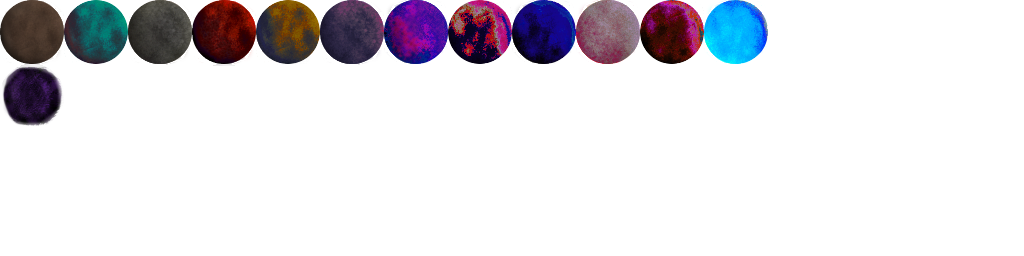
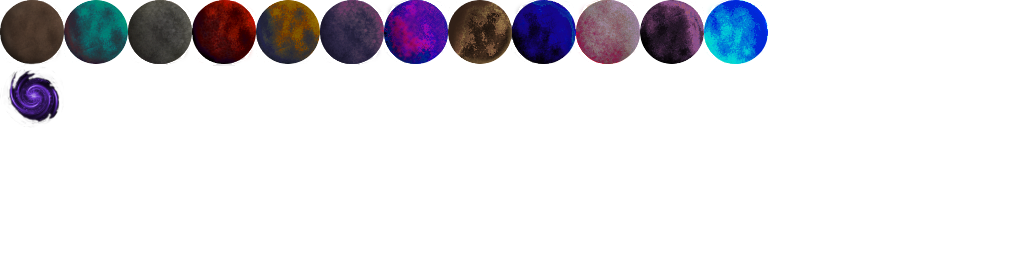
Fixed planets visual + keyboard support

Changed region(s): [[0.625, 0.0, 0.75, 0.25], [0.4375, 0.0, 0.5, 0.25], [0.0, 0.25, 0.0625, 0.5]]

diff --git a/js/game.js b/js/game.js
@@ -277,13 +277,31 @@ function addOrRemoveTunnel(from, to) {
 }
 
 function processInput() {
-    //TODO: completely remove keyboard support
-
-    //special
-    if (input.isPressed(input.keys.R.key) && state == GAME_STATE.LEVEL) {
-        input.clearInput(input.keys.R.key);
-        startLevel();
+    //restart
+    if (input.isPressed(input.keys.R.key)) {
+        if (state == GAME_STATE.LEVEL || state == GAME_STATE.AFTER_LEVEL) {
+            input.clearInput(input.keys.R.key);
+            startLevel();
+        }
     }
+    //proceed
+    if (input.isPressed(input.keys.SPACE.key || input.isPressed(input.keys.ENTER.key))) {
+        if (state == GAME_STATE.AFTER_LEVEL && getPopulationInfo().weWon()) {
+            nextLevel();
+            if (epilogue()) {
+                state = GAME_STATE.THE_END;
+            } else {
+                startLevel();
+            }
+        }
+    }
+
+    //go to menu
+    if (input.isPressed(input.keys.ESCAPE.key)) {
+        state = GAME_STATE.MAIN_MENU;
+    }
+
+    //TODO REMOVE!!!!!!
 
     if (input.isPressed(input.keys.LEFT_BRACKET.key)) {
         input.clearInput(input.keys.LEFT_BRACKET.key);

diff --git a/js/input.js b/js/input.js
@@ -133,7 +133,7 @@
             BACKSPACE: {key: 'BACKSPACE', code: 8}, TAB: {key: 'TAB', code: 9}, ENTER: {key: 'ENTER', code: 13}, SHIFT: {key: 'SHIFT', code: 16},
             CTRL: {key: 'CTRL', code: 17}, ALT: {key: 'ALT', code: 18}, HOME: {key: 'HOME', code: 36}, END: {key: 'END', code: 35},
             INSERT: {key: 'INSERT', code: 45}, DELETE: {key: 'DELETE', code: 46}, PAGE_UP: {key: 'PAGE_UP', code: 33}, PAGE_DOWN: {key: 'PAGE_DOWN', code: 34},
-            CAPSLOCK: {key: 'CAPSLOCK', code: 20}, SPACE: {key: 'SPACE', code: 32},
+            CAPSLOCK: {key: 'CAPSLOCK', code: 20}, SPACE: {key: 'SPACE', code: 32}, ESCAPE: {key: 'ESCAPE', code : 27},
 
             LEFT: {key: 'LEFT', code: 37}, UP: {key: 'UP', code: 38}, RIGHT: {key: 'RIGHT', code: 39}, DOWN: {key: 'DOWN', code: 40},
 
